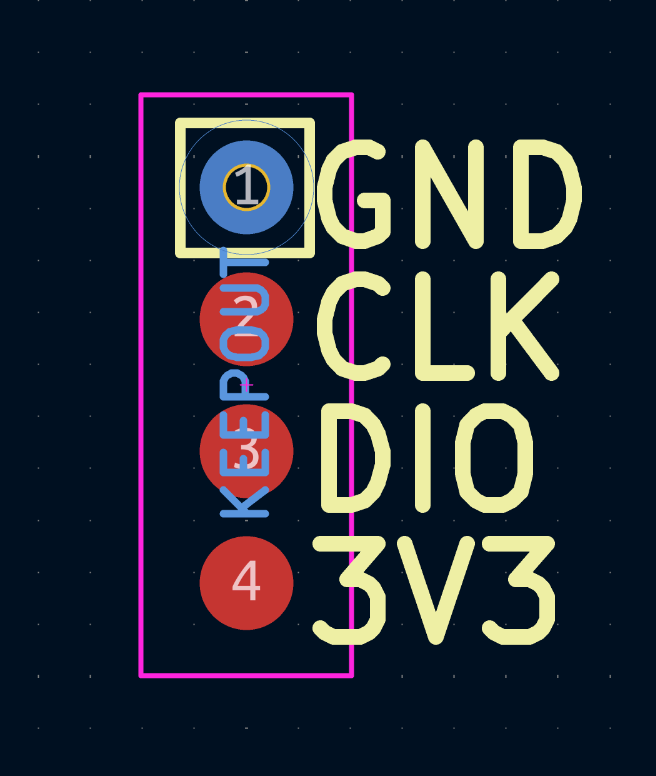
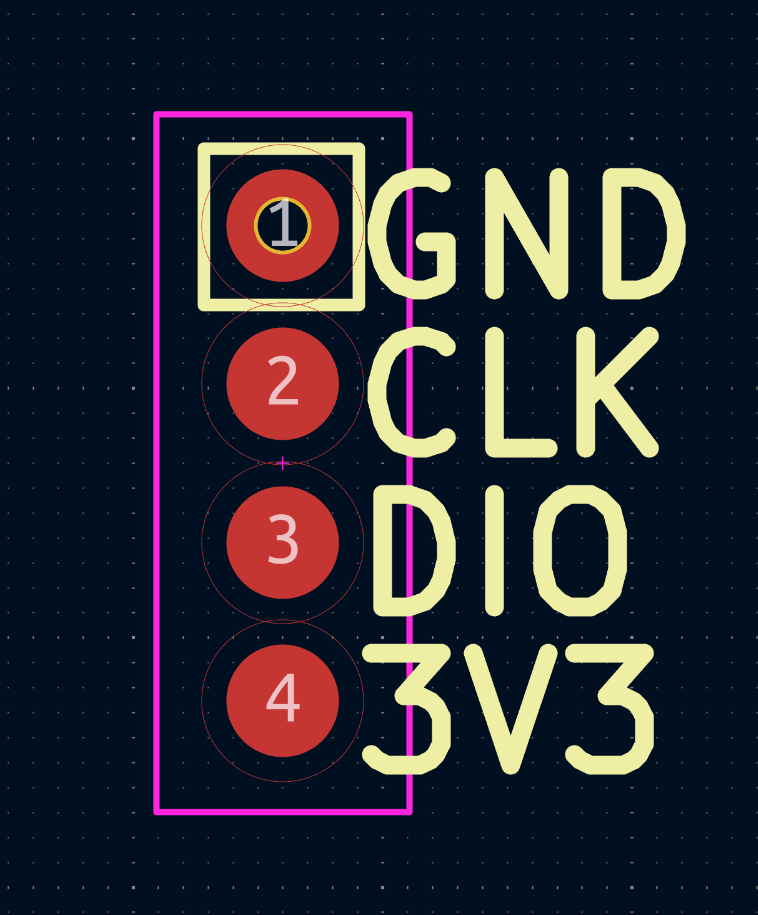
smd version

Changed region(s): [[0.1829, 0.0928, 0.9146, 0.8969], [0.2744, 0.7423, 0.3049, 0.7732], [0.2744, 0.4021, 0.3049, 0.433]]

diff --git a/README.md b/README.md
@@ -2,7 +2,7 @@
 # SlickBug
 
 A small SWD programmer using the Seeed Studio XIAO RP2040.
-I wanted a compact debugger with a tiny target footprint.
+I wanted a compact debugger with a tiny target footprint (roughly 4.8mm by 1.1mm).
 
 It uses four R50 test probe receptacles which are mounted on the back of the PCB and are held in place using two PCB "combs".
 P50 test probes sit in the R50 receptacles.  The GND pin extends 1.5mm further so that GND connects first.
@@ -17,9 +17,9 @@ P50 test probes sit in the R50 receptacles.  The GND pin extends 1.5mm further s
 
 The target footprint is 4 pads with pitch 1.27mm:
 
-| ![assets/v1_pcb_layout_footprint.png](assets/v1_pcb_layout_footprint.png) | ![Target footprint next to keyswitch](assets/v1_next_to_keyswitch.png) |
-| :---: | :---: |
-| PCB footprint | Target footprint next to a MX keyswitch |
+| ![Footprint with guiding hole](assets/v1_pcb_layout_footprint.png) | ![SMD footprint](assets/v1_pcb_layout_footprint_smd.png)  | ![Target footprint next to keyswitch](assets/v1_next_to_keyswitch.png) |
+| :---: | :---: | :---: |
+| PCB footprint with guiding hole | PCB footprint SMD only | Target footprint next to a MX keyswitch |
 
 
 ### Installing the target footprint
